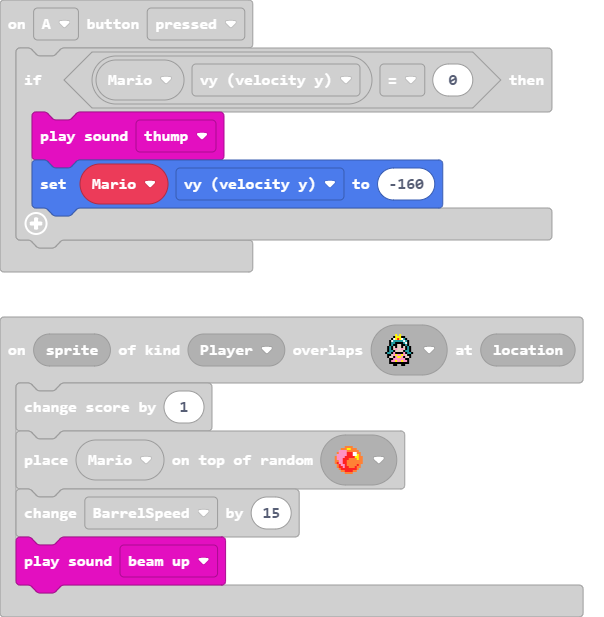
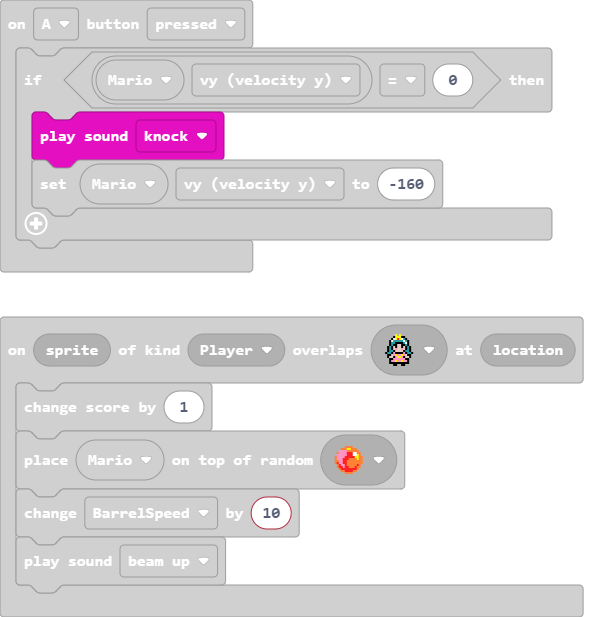
Changed some sounds, and made the levels a bit easier.

Changed region(s): [[0.0298, 0.2156, 0.745, 0.3695], [0.0, 0.8622, 0.3874, 0.9854], [0.4172, 0.8006, 0.4768, 0.8622]]

diff --git a/main.ts b/main.ts
@@ -30,7 +30,7 @@ scene.onOverlapTile(SpriteKind.Projectile, assets.tile`myTile`, function (sprite
 })
 controller.A.onEvent(ControllerButtonEvent.Pressed, function () {
     if (Mario.vy == 0) {
-        music.thump.play()
+        music.knock.play()
         Mario.vy = -160
     }
 })
@@ -108,7 +108,7 @@ scene.onOverlapTile(SpriteKind.Projectile, assets.tile`myTile0`, function (sprit
 scene.onOverlapTile(SpriteKind.Player, assets.tile`myTile2`, function (sprite, location) {
     info.changeScoreBy(1)
     tiles.placeOnRandomTile(Mario, sprites.dungeon.collectibleRedCrystal)
-    BarrelSpeed += 15
+    BarrelSpeed += 10
     music.beamUp.play()
 })
 scene.onOverlapTile(SpriteKind.Projectile, sprites.dungeon.collectibleRedCrystal, function (sprite, location) {
